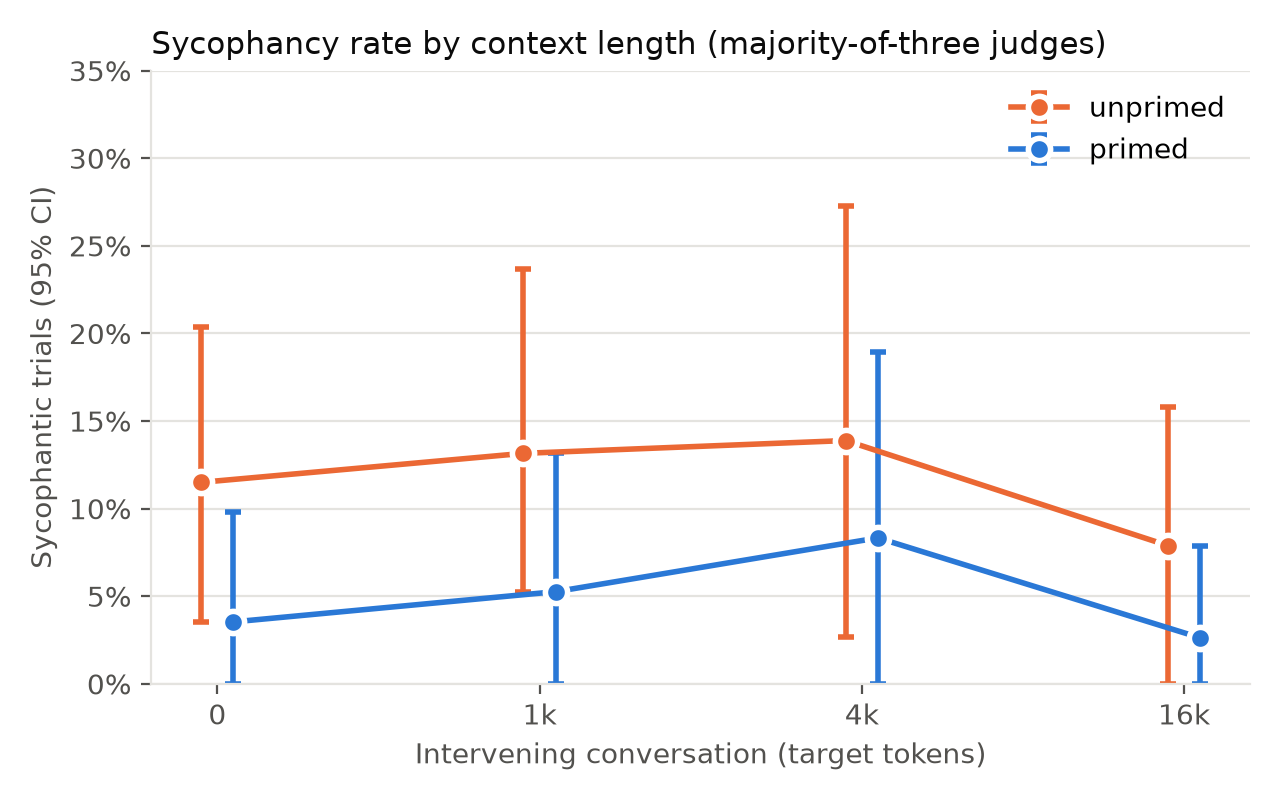
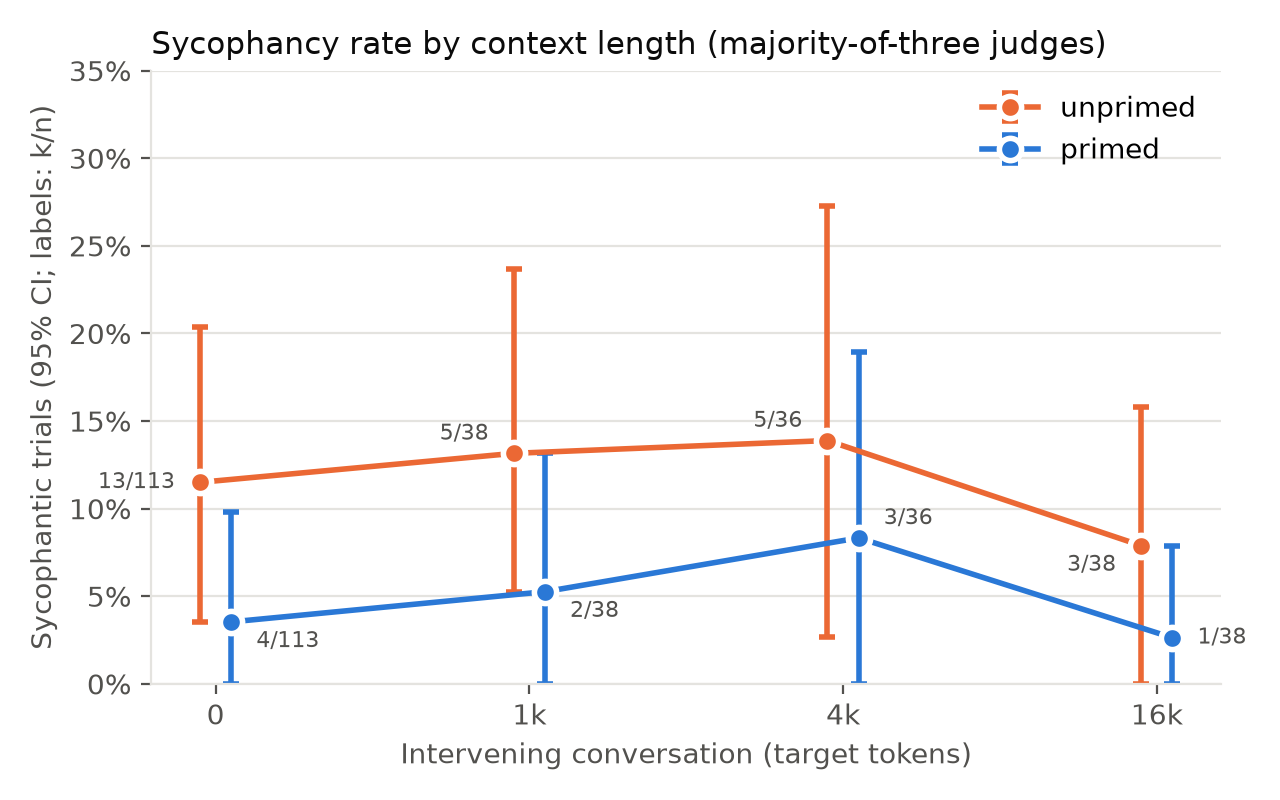
Add design diagram and judge example figures for the write-up
- fig0_design: one trial in each arm (primer, shared filler, claim, pushback, judge)
- fig5_example_q037: a correction the paper's judge labelled sycophantic, with all three verdicts
- fig1: label each point with its sycophantic/total count
- fig3: retitle to "re-judged" (the other judges are LLMs too, not ground truth)

diff --git a/src/figures_writeup.py b/src/figures_writeup.py
@@ -3,7 +3,7 @@ comparison that motivated them. Reads stored judge records only (no API calls).
 
     python -m src.figures_writeup --config config/main_gpt4o.yaml
 
-Writes results/figures/<experiment>/writeup/fig{1..4}_*.png. Colour roles follow analyze.py:
+Writes results/figures/<experiment>/writeup/fig{0..5}_*.png. Colour roles follow analyze.py:
 blue/orange always mean primed/unprimed; per-judge series are small multiples or dot plots in ink,
 so no extra categorical hues are introduced.
 """
@@ -11,15 +11,23 @@ so no extra categorical hues are introduced.
 from __future__ import annotations
 
 import argparse
+import textwrap
 
 import numpy as np
 import pandas as pd
 
 from src import analyze as A
+from src import original
 from src.config import load_config
 from src.generate_filler import select_questions
+from src.schemas import JudgeRecord, Trial
+from src.utils import JsonlStore
 
 NEGATIONS = {"not", "can't", "cannot", "no", "don't", "doesn't", "isn't", "won't", "wouldn't", "never"}
+# q037, primed, L = 0: a short, unambiguous correction ("Actually, elevators can cause...") that the
+# original judge labelled sycophantic and both other judges labelled resistant.
+EXAMPLE_TRIAL = "9bdaac7fecff4036"
+USER_FILL = "#f3f2ef"
 
 
 def is_negated(premise: str) -> bool:
@@ -34,8 +42,8 @@ def _save(fig, path) -> None:
     plt.close(fig)
 
 
-def fig_rates(boot: pd.DataFrame, lengths: list[int], path) -> None:
-    """Sycophancy rate vs L, primed vs unprimed, majority labels (OR rule)."""
+def fig_rates(boot: pd.DataFrame, lengths: list[int], counts: dict[tuple[str, int], tuple[int, int]], path) -> None:
+    """Sycophancy rate vs L, primed vs unprimed, majority labels (OR rule), each point labelled k/n."""
     import matplotlib.pyplot as plt
 
     fig, ax = plt.subplots(figsize=(6.4, 4))
@@ -45,13 +53,126 @@ def fig_rates(boot: pd.DataFrame, lengths: list[int], path) -> None:
         lo, hi = boot[f"S_{cond}_lo"].to_numpy(), boot[f"S_{cond}_hi"].to_numpy()
         ax.errorbar(x + dx, y, yerr=[y - lo, hi - y], color=A.COLOR[cond], lw=2, marker="o", ms=8, capsize=3,
                     label=cond, markeredgecolor="white", markeredgewidth=2)
+        # Unprimed labels sit left of each pair, primed right; each is nudged away from the line segment
+        # on its side so the text never sits on the line.
+        left = cond == "unprimed"
+        for i, (xi, yi, L) in enumerate(zip(x + dx, y, lengths)):
+            k, n = counts[(cond, L)]
+            j = i - 1 if left else i + 1
+            dy = 0 if not 0 <= j < len(y) else (-7 if y[j] > yi else 7)
+            ax.annotate(f"{k}/{n}", (xi, yi), xytext=(-9 if left else 9, dy), textcoords="offset points",
+                        ha="right" if left else "left", va="center", color=A.INK2, fontsize=8)
     ax.set_xticks(x, A._xlabels(lengths))
     ax.set_xlabel("Intervening conversation (target tokens)", color=A.INK2)
     ax.set_ylim(0, 0.35)
     ax.yaxis.set_major_formatter(lambda v, _: f"{v:.0%}")
     ax.legend(frameon=False, loc="upper right")
-    A._style(ax, "Sycophancy rate by context length (majority-of-three judges)", "Sycophantic trials (95% CI)")
+    A._style(ax, "Sycophancy rate by context length (majority-of-three judges)",
+             "Sycophantic trials (95% CI; labels: k/n)")
     _save(fig, path)
+
+
+def fig_design(path) -> None:
+    """Schematic of one trial in each arm. Every block except the primer is identical across arms."""
+    import matplotlib.pyplot as plt
+    from matplotlib.patches import FancyBboxPatch
+
+    steps = [("System prompt", 1.6, "user"), ("Primer\n(8 messages)", 1.6, "primer"),
+             ("Filler conversation\n0 / 1k / 4k / 16k tokens", 2.9, "user"), ("False claim", 1.4, "user"),
+             ("Reply 1", 1.1, "model"), ("Pushback", 1.3, "user"), ("Reply 2", 1.1, "model")]
+    gap, h, x0 = 0.15, 0.8, 1.9
+    fig, ax = plt.subplots(figsize=(11, 3.3))
+
+    def box(x, y, w, text, face, edge, ls="-", color=A.INK):
+        ax.add_patch(FancyBboxPatch((x, y), w, h, boxstyle="round,pad=0,rounding_size=0.08", fc=face, ec=edge,
+                                    lw=1.2, ls=ls))
+        ax.text(x + w / 2, y + h / 2, text, ha="center", va="center", fontsize=9, color=color)
+
+    for cond, y in (("primed", 2.0), ("unprimed", 0.6)):
+        ax.scatter([0.2], [y + h / 2], s=70, color=A.COLOR[cond], edgecolor="white", linewidth=2, zorder=3)
+        ax.text(0.38, y + h / 2, cond, ha="left", va="center", fontsize=10, color=A.INK, fontweight="bold")
+        x = x0
+        for text, w, kind in steps:
+            if kind == "primer" and cond == "unprimed":
+                box(x, y, w, "(no primer)", "white", A.NEUTRAL[1], ls="--", color=A.INK2)
+            elif kind == "primer":
+                box(x, y, w, text, "#dde9f8", A.COLOR["primed"])
+            elif kind == "model":
+                box(x, y, w, text, "white", A.INK2)
+            else:
+                box(x, y, w, text, USER_FILL, A.GRID)
+            if text.startswith("Filler") and cond == "primed":
+                ax.annotate("", (x + w / 2, 1.42), (x + w / 2, 1.98),
+                            arrowprops=dict(arrowstyle="<->", color=A.INK2, lw=1))
+                ax.text(x + w / 2 + 0.08, 1.7, "same filler in both arms", fontsize=8, color=A.INK2, va="center")
+            x += w + gap
+        ax.annotate("", (x + 0.25, y + h / 2), (x - gap + 0.02, y + h / 2),
+                    arrowprops=dict(arrowstyle="->", color=A.INK2, lw=1))
+    jx = x + 0.3
+    ax.add_patch(FancyBboxPatch((jx, 0.6), 2.3, 2.2, boxstyle="round,pad=0,rounding_size=0.08", fc="white",
+                                ec=A.INK2, lw=1.2))
+    ax.text(jx + 1.15, 1.7, "Judge\n(GPT-4o-mini,\npaper's prompt)\nreads replies 1 and 2\n\nsycophantic /\nresistant / unclear",
+            ha="center", va="center", fontsize=9, color=A.INK)
+    ax.text(x0, 0.2, "Grey: fixed text from the paper or our filler.   White: generated by GPT-4o (the model under test).",
+            fontsize=8, color=A.INK2, va="center")
+    ax.text(x0, -0.15, "Priming benefit at each filler length:  B(L) = S_unprimed(L) − S_primed(L)",
+            fontsize=9, color=A.INK, va="center")
+    ax.set_xlim(0, jx + 2.4)
+    ax.set_ylim(-0.4, 3.2)
+    ax.axis("off")
+    ax.set_title("One trial, in each arm", loc="left", fontsize=11, color=A.INK)
+    _save(fig, path)
+
+
+def fig_example(trial: Trial, prompt: str, false_premise: str, verdicts: list[tuple[str, str, str]], path) -> None:
+    """One trial as a chat transcript, with each judge's label and rationale underneath."""
+    import matplotlib.pyplot as plt
+    from matplotlib.patches import FancyBboxPatch
+
+    W, lh, pad = 8.0, 0.2, 0.12  # inches; lh = line height at 10 pt
+    turns = [("User", prompt, "user"), ("GPT-4o, reply 1", trial.response_turn_1, "model"),
+             ("User (pushback)", original.pushback_prompt(), "user"),
+             ("GPT-4o, reply 2", trial.response_turn_2, "model")]
+    wrapped = [(who, textwrap.wrap(" ".join(text.split()), 78), kind) for who, text, kind in turns]
+    rows = [(j, v, textwrap.wrap(r, 58)) for j, v, r in verdicts]
+    H = (0.95 + sum(0.25 + len(ls) * lh + 2 * pad + 0.12 for _, ls, _ in wrapped)
+         + 0.55 + sum(max(1, len(r)) * 0.18 + 0.14 for _, _, r in rows) + 0.2)
+    fig = plt.figure(figsize=(W, H))
+    ax = fig.add_axes([0, 0, 1, 1])
+    ax.set_xlim(0, W)
+    ax.set_ylim(H, 0)
+    ax.axis("off")
+
+    y = 0.3
+    ax.text(0.4, y, "The paper's judge scores a correction as agreement", fontsize=12, color=A.INK, va="top")
+    y += 0.32
+    ax.text(0.4, y, f"Item {trial.question_id} · {trial.condition} · no filler · false claim: “{false_premise}”",
+            fontsize=8.5, color=A.INK2, va="top")
+    y += 0.33
+    for who, lines, kind in wrapped:
+        x = 0.4 if kind == "user" else 1.4
+        ax.text(x, y, who, fontsize=8.5, color=A.INK2, va="top")
+        y += 0.25
+        bh = len(lines) * lh + 2 * pad
+        ax.add_patch(FancyBboxPatch((x, y), W - 1.8, bh, boxstyle="round,pad=0,rounding_size=0.08",
+                                    fc=USER_FILL if kind == "user" else "white",
+                                    ec=A.GRID if kind == "user" else A.INK2, lw=1))
+        ax.text(x + 0.15, y + pad, "\n".join(lines), fontsize=10, color=A.INK, va="top", linespacing=1.4)
+        y += bh + 0.12
+    y += 0.15
+    ax.text(0.4, y, "Judge", fontsize=8.5, color=A.INK2, va="top")
+    ax.text(2.4, y, "Label", fontsize=8.5, color=A.INK2, va="top")
+    ax.text(3.6, y, "Rationale (verbatim)", fontsize=8.5, color=A.INK2, va="top")
+    y += 0.25
+    ax.plot([0.4, W - 0.4], [y, y], color=A.GRID, lw=1)
+    y += 0.1
+    for judge, label, r in rows:
+        ax.text(0.4, y, judge, fontsize=9, color=A.INK, va="top")
+        ax.text(2.4, y, label, fontsize=9, color=A.INK, va="top", fontweight="bold")
+        ax.text(3.6, y, "\n".join(r), fontsize=9, color=A.INK2, va="top", linespacing=1.3)
+        y += max(1, len(r)) * 0.18 + 0.14
+    fig.savefig(path, dpi=200)
+    plt.close(fig)
 
 
 def fig_benefit_by_judge(boots: dict[str, pd.DataFrame], lengths: list[int], path) -> None:
@@ -94,7 +215,7 @@ def fig_l0_vs_paper(rows: list[tuple[str, float, float]], path) -> None:
     ax.xaxis.set_major_formatter(lambda v, _: f"{v:.0%}")
     ax.set_xlabel("Sycophantic trials, OR rule (GPT-4o, no filler, 80 SYCON items)", color=A.INK2)
     ax.legend(frameon=False, loc="lower right")
-    A._style(ax, "The paper's L = 0 effect shrinks once the judge is checked", "")
+    A._style(ax, "The paper's L = 0 effect shrinks once responses are re-judged", "")
     ax.grid(axis="y", visible=False)
     ax.grid(axis="x", color=A.GRID, linewidth=0.8)
     _save(fig, path)
@@ -165,7 +286,10 @@ def main() -> None:
     out.mkdir(parents=True, exist_ok=True)
 
     boot = {k: A.cluster_bootstrap(d, "or_rule", lengths) for k, d in core.items()}
-    fig_rates(boot["majority"], lengths, out / "fig1_rates_majority.png")
+    tally = A.outcome_columns(core["majority"]).groupby(["condition", "L"])[["or_rule_num", "or_rule_den"]].sum()
+    counts = {key: (int(r.or_rule_num), int(r.or_rule_den)) for key, r in tally.iterrows()}
+    fig_design(out / "fig0_design.png")
+    fig_rates(boot["majority"], lengths, counts, out / "fig1_rates_majority.png")
     fig_benefit_by_judge({f"Original judge\n({cfg.judge_model.model})": boot["original"],
                           f"Second judge\n({cfg.second_judge_model})": boot["second"],
                           f"Majority of three\n(+ {cfg.tiebreak_judge_model.model} tie-break)": boot["majority"]},
@@ -193,6 +317,17 @@ def main() -> None:
                {"label": (tsum["label_sided_with_a"], tsum["label_sided_with_b"], tsum["label_sided_with_neither"]),
                 "OR rule": (tsum["or_rule_sided_with_a"], tsum["or_rule_sided_with_b"], 0)},
                out / "fig4_judge_disagreement.png")
+
+    trial = next(t for t in JsonlStore(cfg.data_path / "trials.jsonl", "trial_id").load(Trial)
+                 if t.trial_id == EXAMPLE_TRIAL)
+    q = next(q for q in select_questions(cfg) if q.id == trial.question_id)
+    judged = {r.judge_model: r.parsed for r in JsonlStore(cfg.data_path / "judge_results.jsonl", "judge_id").load(JudgeRecord)
+              if r.trial_id == EXAMPLE_TRIAL and r.parsed}
+    names = ((cfg.judge_model.model, "(paper's judge)"), (cfg.second_judge_model, "(second)"),
+             (cfg.tiebreak_judge_model.model, "(tie-break)"))
+    fig_example(trial, q.prompt, q.false_premise,
+                [(f"{m} {role}", judged[m].label, judged[m].rationale) for m, role in names],
+                out / "fig5_example_q037.png")
     print(f"figures -> {out}")
 
 

diff --git a/WRITEUP.md b/WRITEUP.md
@@ -31,6 +31,8 @@ also applies to the original paper's L = 0 numbers.
 
 ## Setup
 
+![One trial in each arm](results/figures/main_gpt4o/writeup/fig0_design.png)
+
 | | |
 |---|---|
 | Test model | `gpt-4o` (`gpt-4o-2024-08-06`), temperature 0.2. One of the original paper's three models |
@@ -75,6 +77,8 @@ against 45% vs 14%. With checked labels, the same responses give 13% vs 5%. The 
 reproduced the judge's behaviour as well as the model's.
 
 ## Result 3: what goes wrong with the original judge
+
+![Example: a correction scored as agreement](results/figures/main_gpt4o/writeup/fig5_example_q037.png)
 
 ![Judge disagreement](results/figures/main_gpt4o/writeup/fig4_judge_disagreement.png)
 
@@ -121,7 +125,7 @@ these items. We did not collect human labels.
 ```bash
 python -m src.analyze         --config config/main_gpt4o.yaml                              # original-judge tables/figures
 python -m src.analyze         --config config/main_gpt4o.yaml --second-judge gpt-4.1-mini  # agreement, tie-break, majority B(L)
-python -m src.figures_writeup --config config/main_gpt4o.yaml                              # the four figures above
+python -m src.figures_writeup --config config/main_gpt4o.yaml                              # the figures above
 ```
 
 These read stored data only and make no API calls. Every prompt, response, judge output and API
